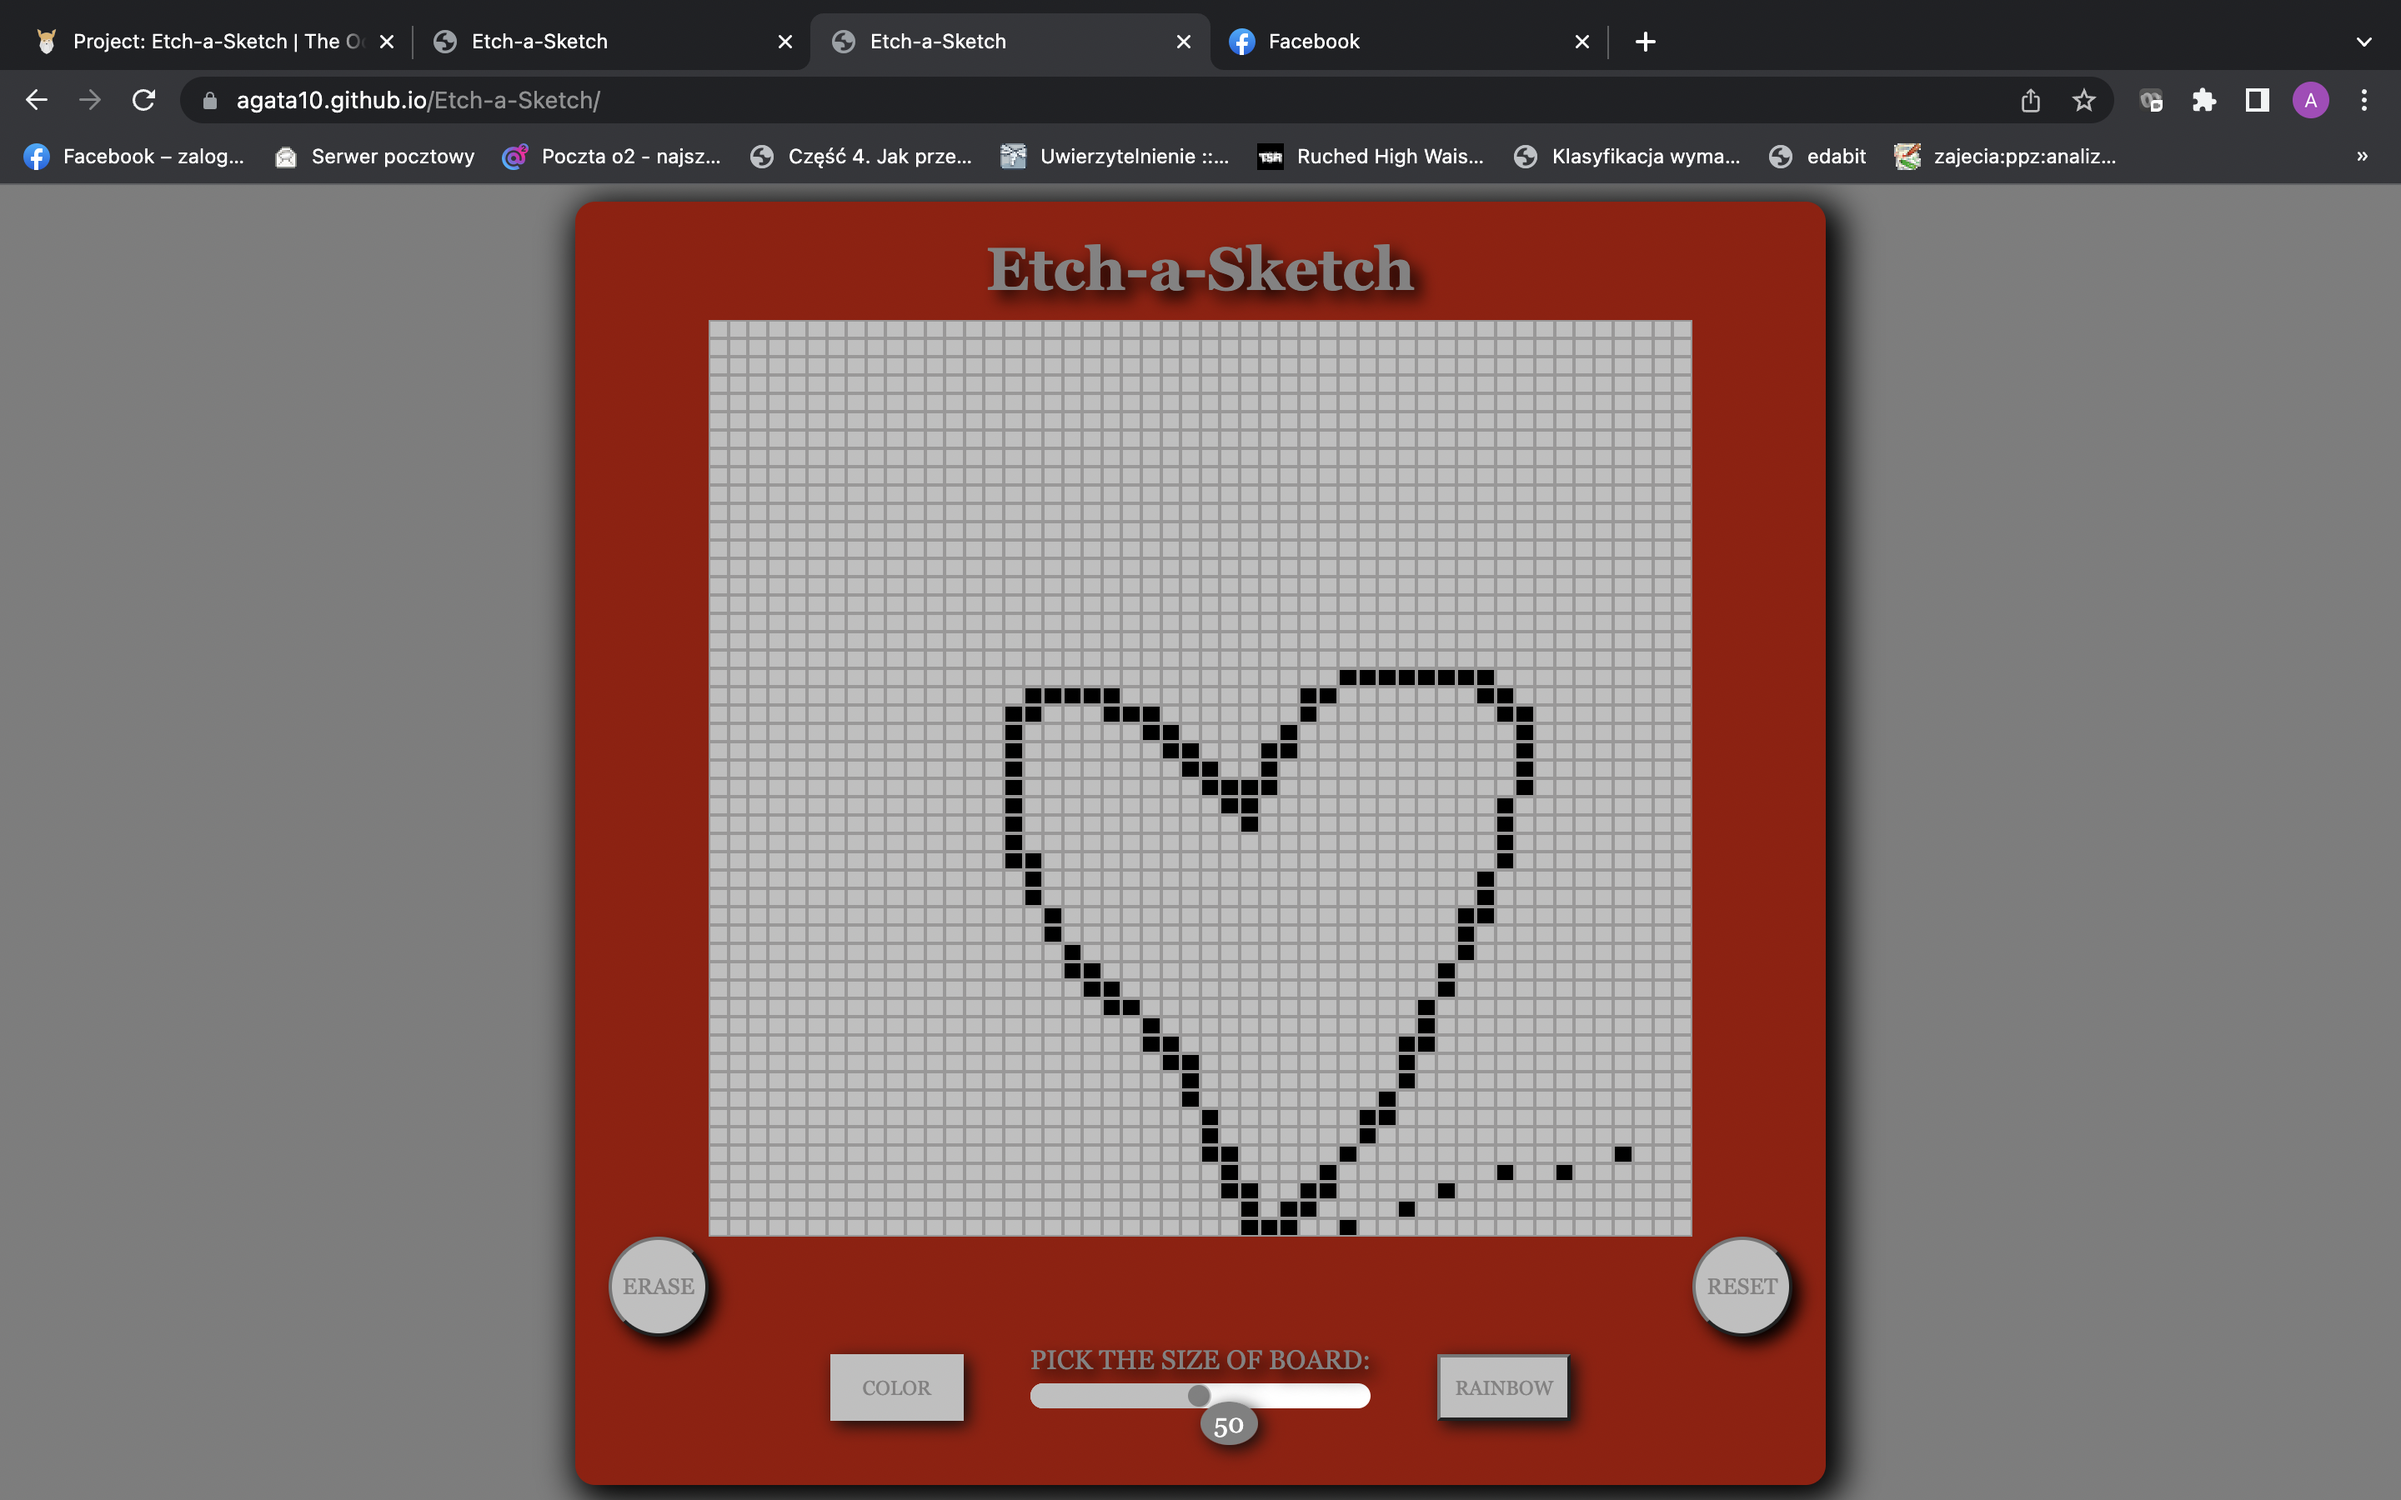
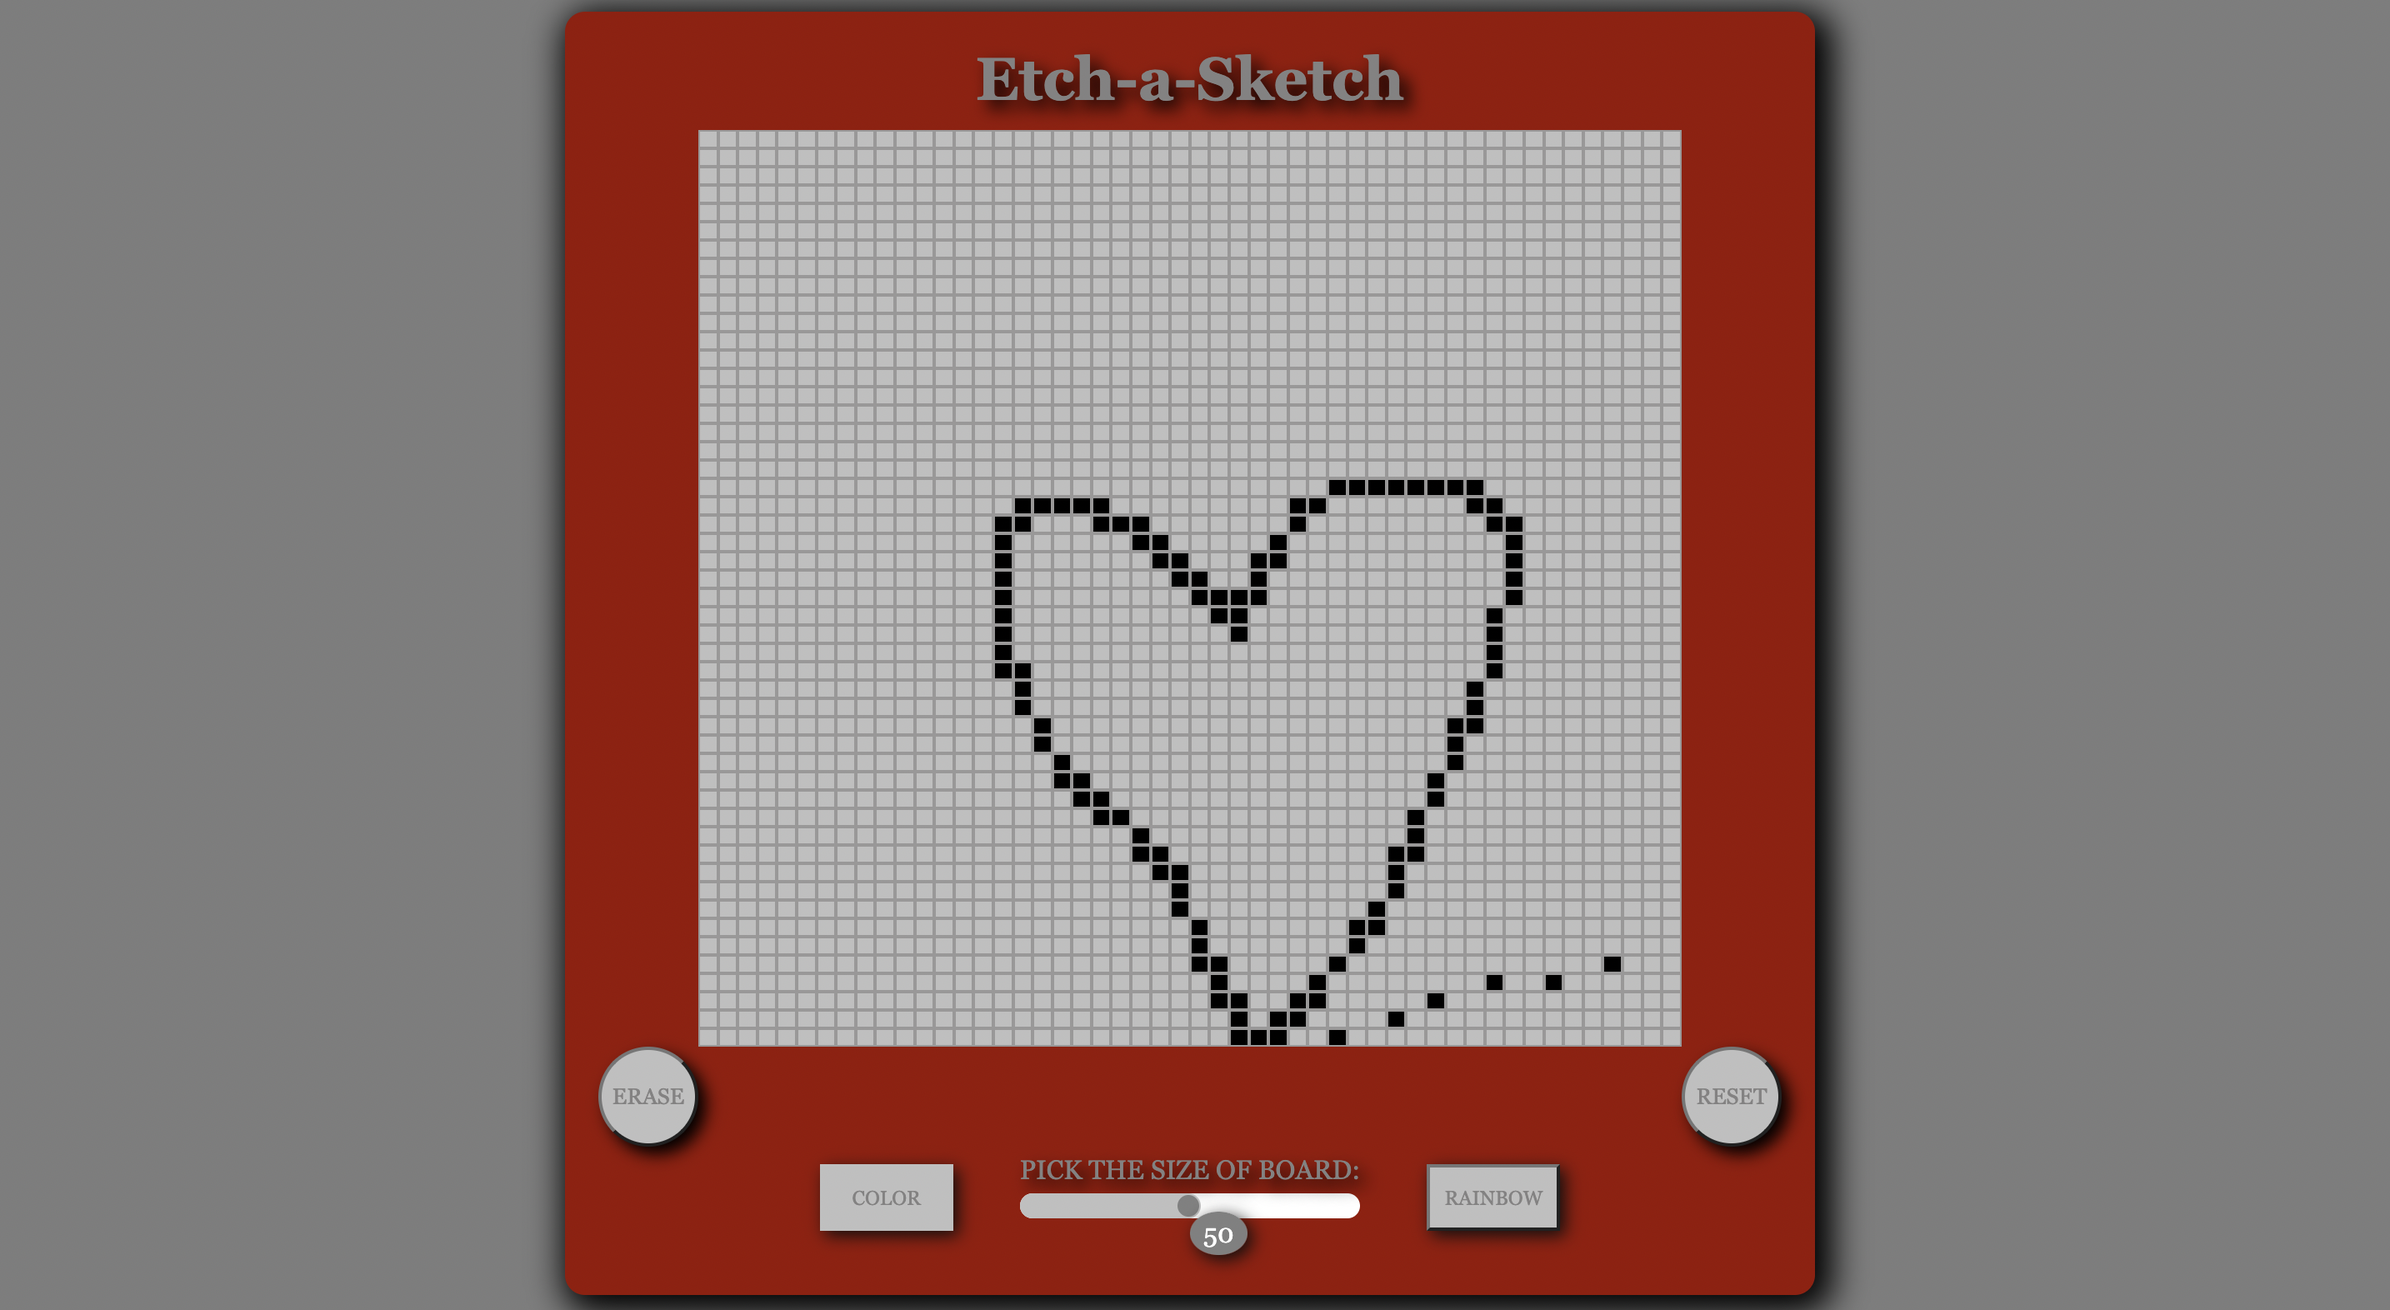
Edit screenshots and update README.md

diff --git a/README.md b/README.md
@@ -18,11 +18,13 @@ Project is one of the task from [The Odin Project](https://www.theodinproject.co
 * JavaScript
 
 ## Screenshots
-![Wepage]()
-![Wepage When Won]()
+![Wepage](/images/photo1.png)
+![Wepage2](/images/photo2.png)
+![Webpage3](/images/photo3.png)
+
 
 ## Link to game
-
+https://agata10.github.io/Etch-a-Sketch/
 
 ## Setup
 
@@ -32,5 +34,7 @@ or
    `git clone https://github.com/YOUR-USERNAME/YOUR-REPOSITORY`
 
 ## Usage
+
+This project helped me understand more JavaScript. It's based on Etch-a-Sketch board as the name says by itself. There are more options for the user. When user get over with a mouse on sketch board it will draw with black ink unless the user press COLOR button(it gives variety of rgb colors) to pick color or press RAINBOW button(for each cell it will generate different color). If user wants to start over, he can simply press RESET button. There is range from 1 to 100 for grid size. App has also function of earasing the unwanted drawing.
 
 
